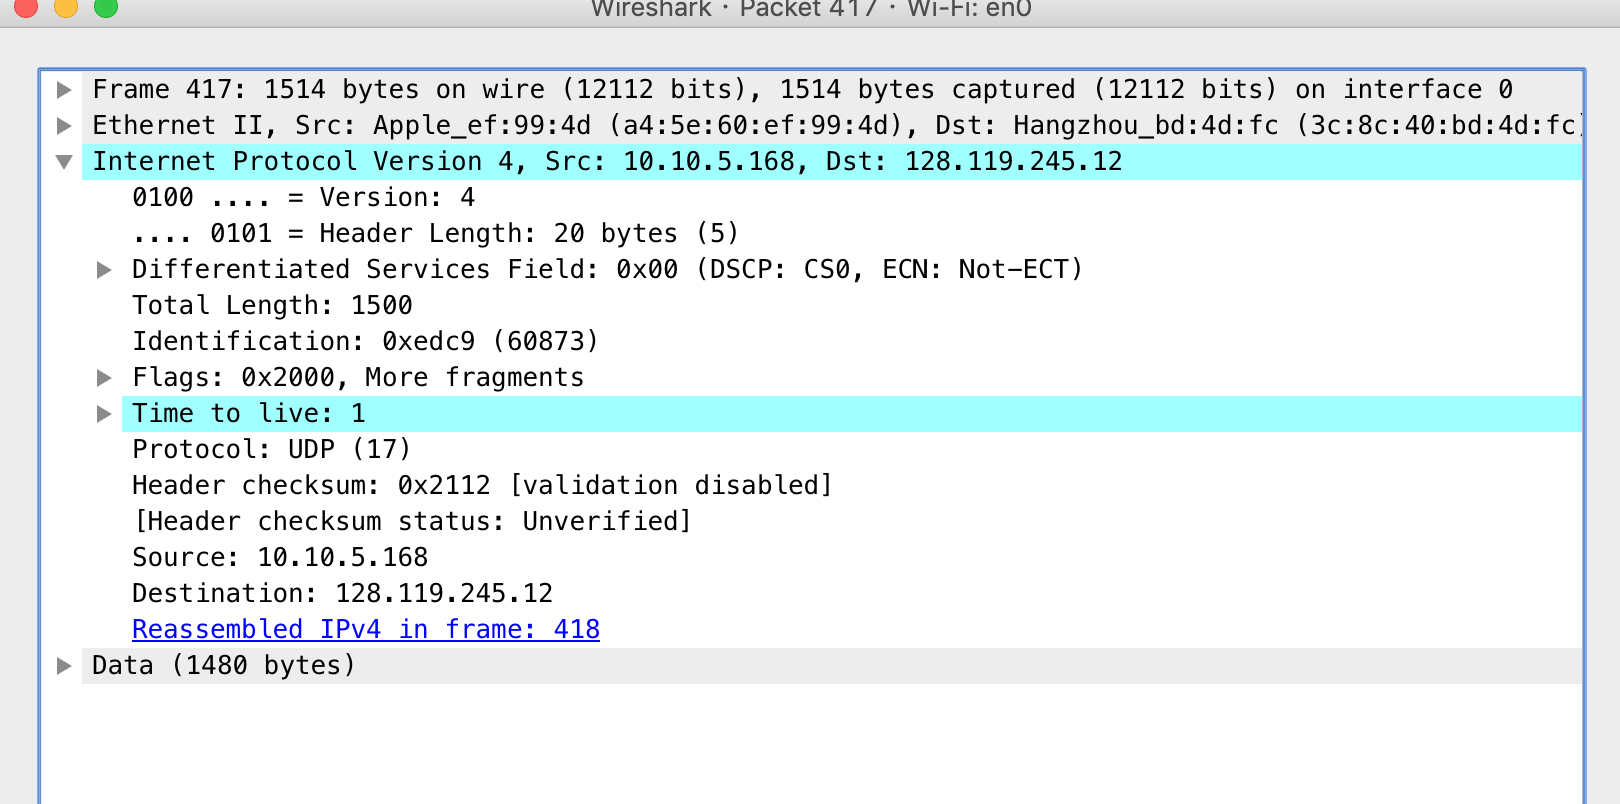
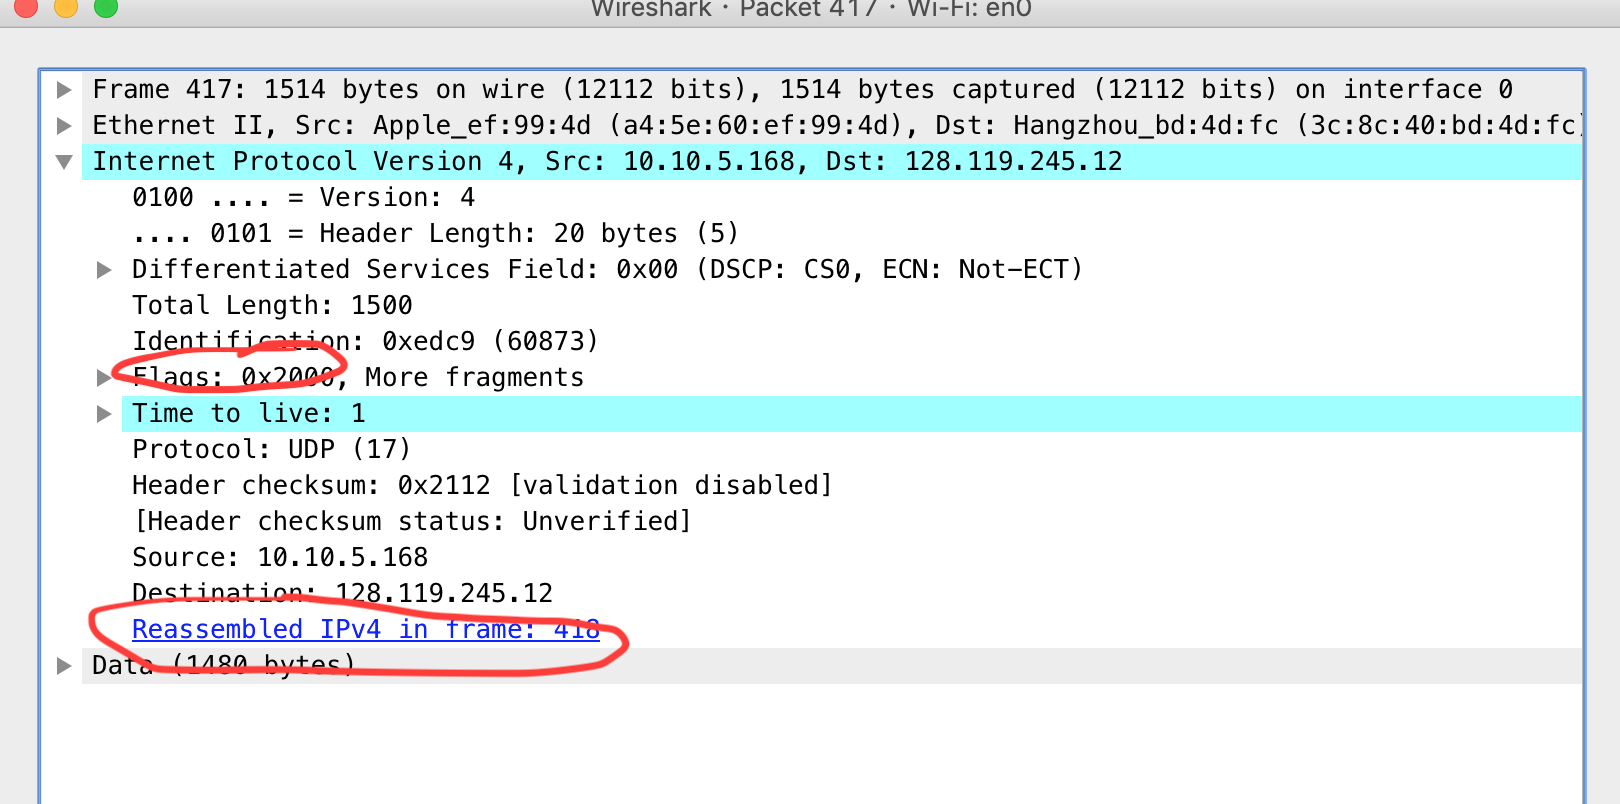
lab

Changed region(s): [[0.0309, 0.7152, 0.4012, 0.8396], [0.0617, 0.4042, 0.216, 0.4975]]

diff --git a/04 网络层/Wireshake_lab-IP.md b/04 网络层/Wireshake_lab-IP.md
@@ -23,12 +23,20 @@
       * 在你的轨迹中，你应该可以看到一系列从你的主机发送的 ICMP 回显请求（在 Windows 平台）或者 UDP 报文段（在 Unix 平台），以及中间路由器返回的 TTL-exceeded ICMP 报文。在下列问题中，我们将假设你使用 Windows 机器。对应的 Unix 版本的问题应该很清晰。
       
       * 1、你的电脑的 IP 地址是什么？
+        * ![](https://github.com/YangXiaoHei/Networking/blob/master/04%20网络层/images/wl_ip_1.png)
+        * 从上图可以看出，向目的地发送一系列 UDP 报文时，源 IP 地址是 10.10.5.168，这就是我电脑的 IP 地址，一个内网地址。
       
       * 2、在 IP 分组首部，上层协议的值是什么？
+        * ![](https://github.com/YangXiaoHei/Networking/blob/master/04%20网络层/images/wl_ip_2.png)
+        * 从图中可以看出，上层协议号 17，运输层协议是 UDP。
       
       * 3、IP 首部总共多少字节？IP 数据报的载荷有多少字节？你回答载荷长度的依据是什么。
+         * ![](https://github.com/YangXiaoHei/Networking/blob/master/04%20网络层/images/wl_ip_2.png)
+         * IP 首部总共 20 字节，载荷为 1480 字节，依据是总长度为 1500 字节，1500 - 20 = 1480 字节。
       
       * 4、这个 IP 数据报被分片了吗？你回答是或否的依据是什么？
+         * ![](https://github.com/YangXiaoHei/Networking/blob/master/04%20网络层/images/wl_ip_3.png)
+         * 被分片了，因为 2000 字节的数据报，总大小只有 1500 字节。而且 flag 字段不为 0，这代表此 IP 数据报后面还有其他分片。
       
 接下来，根据 IP 源地址来排序分组轨迹。通过点击 Source 列来排序。选择第一个被你电脑发送的 ICMP 回显请求报文。
 
